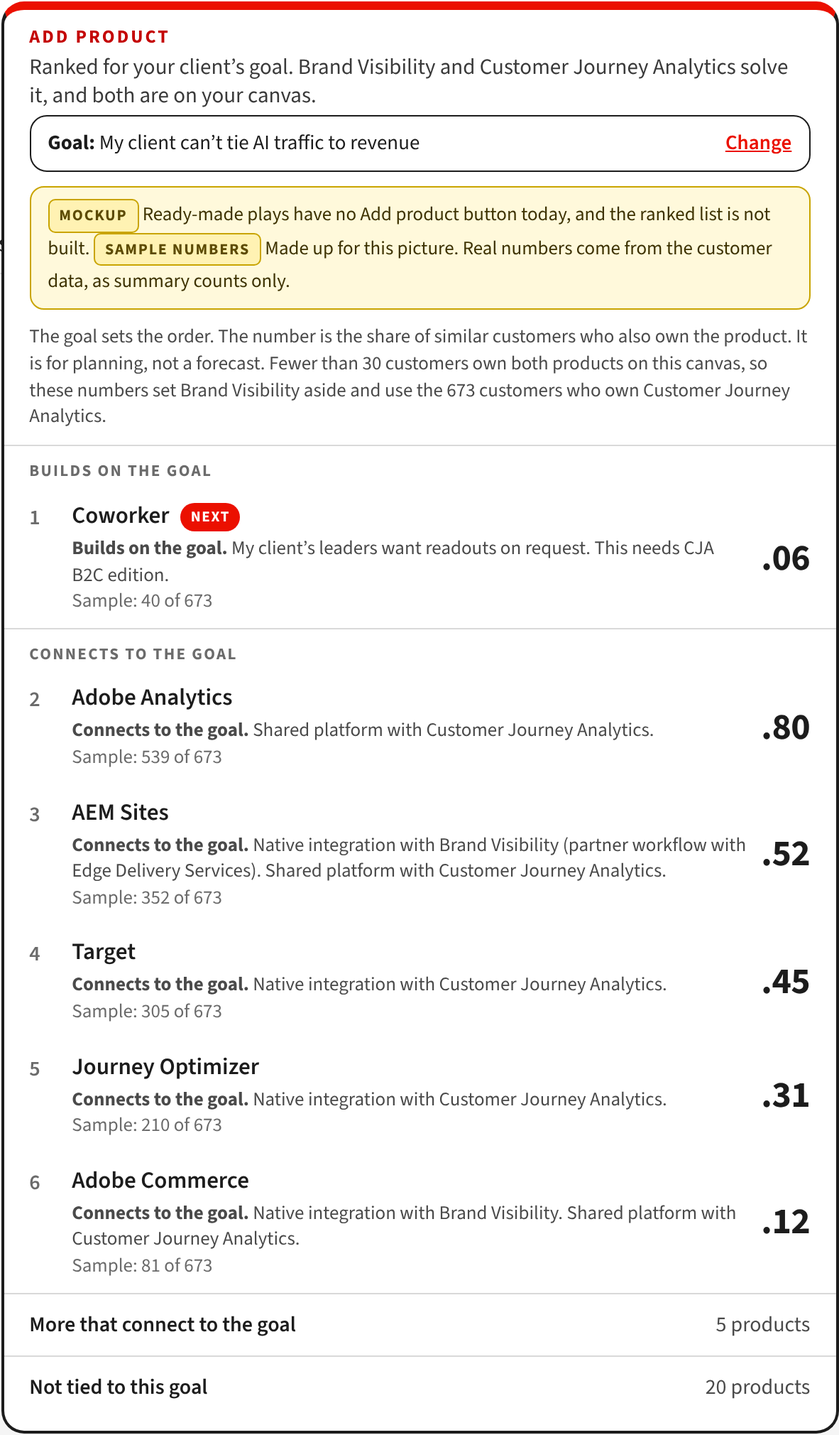
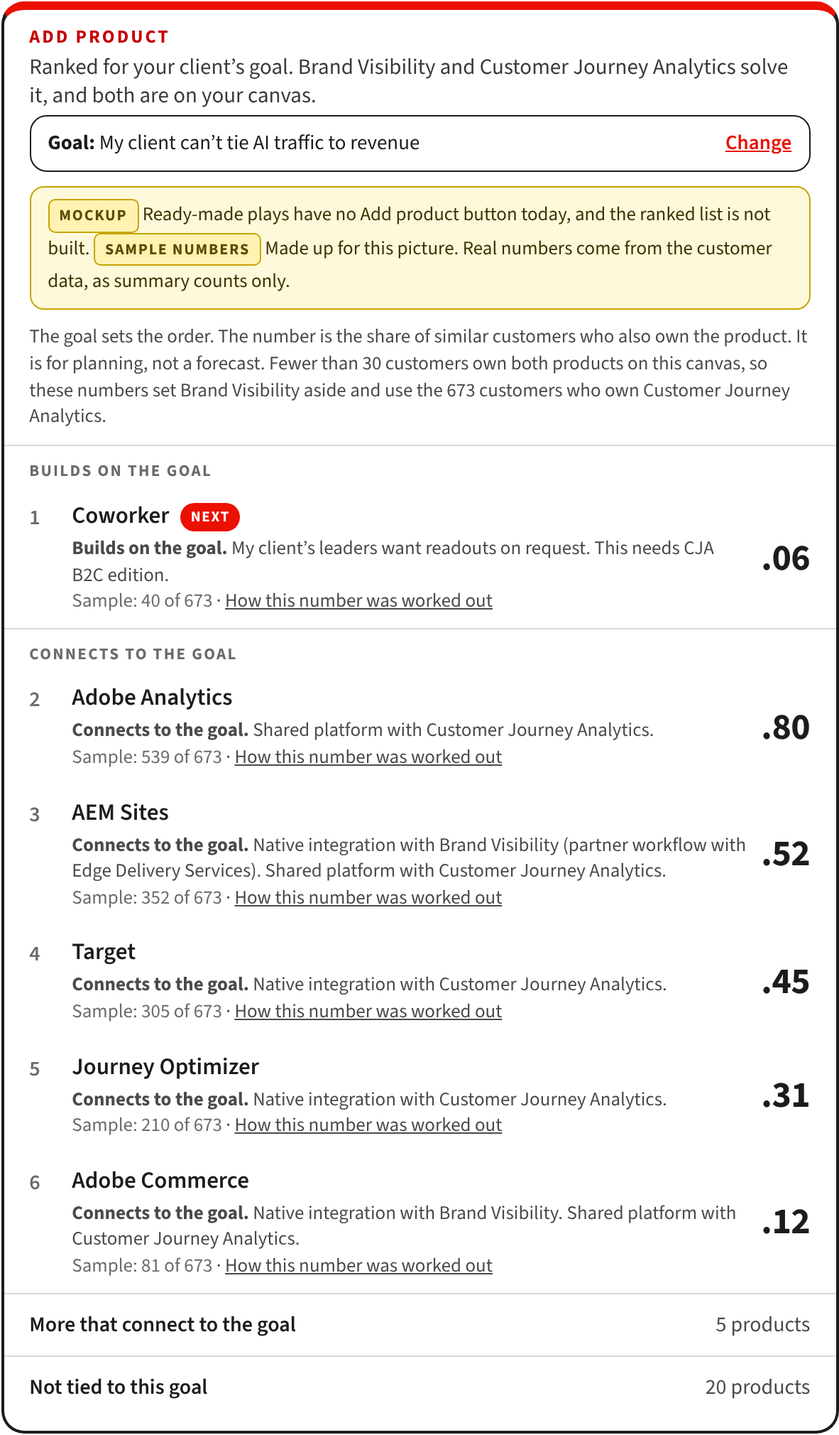
Handoff: second review pass on the propensity tab and mockups [skip netlify]
Work in progress only; nothing in the tool changes. Wording made exact where
a second set of reviewers found it loose (who similar customers are, the
fall-back order, what each check compares), the mockup rows gain the
"How this number was worked out" link, and the tab shows a phone-size
picture on small screens.

Claude-Session: https://claude.ai/code/session_016WYrHW3TmtC37K94o1NhYi

diff --git a/handoff/2026-11-17/propensity/method_page/propensity-method.html b/handoff/2026-11-17/propensity/method_page/propensity-method.html
@@ -93,8 +93,8 @@
 .cw-place-head{break-after:avoid}
 }
 /* Propensity to buy tab */
-main h1,main h2,main h3{text-wrap:balance}
-.pm-status{margin-top:26px;padding:16px 20px;border:1px solid #d9b200;border-radius:14px;background:#fffaf0;font-size:16px;line-height:1.5;color:#3d3200}
+main h1,main h2,main h3,main .micro{text-wrap:balance}
+.pm-status{max-width:920px;margin:26px auto 0;padding:16px 20px;border:1px solid #d9b200;border-radius:14px;background:#fffaf0;font-size:16px;line-height:1.5;color:#3d3200}
 .pm-status strong{color:#2a2200}
 .pm-sample{display:inline-block;margin-right:4px;padding:2px 8px;border:1px solid #c9a400;border-radius:5px;background:#fff2b3;color:#5c4a00;font-size:11px;font-weight:700;letter-spacing:.08em;text-transform:uppercase;white-space:nowrap;vertical-align:.08em}
 .pm-short .impact-ledger h3{margin-top:0}
@@ -119,13 +119,15 @@ main h1,main h2,main h3{text-wrap:balance}
 .pm-note{margin-top:18px;max-width:920px;font-size:15px;line-height:1.6;color:#555}
 .pm-note strong{color:var(--ink)}
 .pm-figure{margin:34px 0 0;display:grid;grid-template-columns:minmax(0,560px) minmax(0,1fr);gap:28px;align-items:start}
-.pm-figure img{display:block;width:100%;height:auto;border-radius:10px}
+.pm-figure img{display:block;width:100%;max-width:560px;height:auto;border-radius:10px}
+.pm-figure .pm-narrow{display:none;max-width:361px}
 .pm-figure figcaption{font-size:15px;line-height:1.6;color:#555}
 .pm-figure figcaption strong{color:var(--ink)}
 @media(min-width:1101px){#proof .cw-steps{grid-template-columns:repeat(2,minmax(0,1fr))}}
 @media(max-width:1100px){.pm-two,.pm-figure{grid-template-columns:1fr}}
 @media(max-width:700px){.pm-calc{white-space:normal}.pm-status{font-size:15px}}
-@media print{.skip-link{display:none}.pm-status,.pm-sample{-webkit-print-color-adjust:exact;print-color-adjust:exact}}
+@media(max-width:480px){.pm-figure .pm-wide{display:none}.pm-figure .pm-narrow{display:block}}
+@media print{.skip-link{display:none}.pm-status,.pm-sample{-webkit-print-color-adjust:exact;print-color-adjust:exact}.pm-figure{grid-template-columns:minmax(0,400px) minmax(0,1fr);gap:20px;break-inside:avoid}}
 </style>
 </head>
 <body>
@@ -153,7 +155,7 @@ main h1,main h2,main h3{text-wrap:balance}
       </article>
       <article>
         <h3>The data sets the number.</h3>
-        <p>Next to each product is one number between 0 and 1. It is the share of similar customers who also own the product. Similar means customers who own every Adobe product on the canvas. The customer count sits beside the number.</p>
+        <p>Next to each product is one number between 0 and 1. It is the share of similar customers who also own the product. Similar means customers who own every Adobe product on the canvas. When too few do, the tool sets a product aside and says which. The customer count sits beside the number.</p>
       </article>
       <article>
         <h3>Checks come first.</h3>
@@ -165,11 +167,11 @@ main h1,main h2,main h3{text-wrap:balance}
 <section class="section capability-section sow-case cw-process pm-steps" id="logic"><div class="wrap">
   <div class="section-heading"><div><p class="eyebrow">How it works</p><h2>The logic,<br>step by step.</h2></div><p>Six steps. The first two need no customer data, so they can work on day one. The other four start when the data is loaded and checked.</p></div>
   <ol class="capability-flow cw-steps">
-      <li><p class="micro">Step 1 · <span>No data needed</span></p><h3>Ask the goal once</h3><p>The tool asks one question for each canvas: what is your client trying to accomplish? The partner picks one of the <strong>23</strong> client problems already in the tool. The answer stays with that canvas until the partner changes it.</p></li>
-      <li><p class="micro">Step 2 · <span>No data needed</span></p><h3>Sort every product by fit</h3><p><strong>Solves the goal:</strong> the products that problem calls for. <strong>Builds on the goal:</strong> products added when the partner gives more detail about the client. <strong>Connects to the goal:</strong> products with a documented connection to one that solves it. Everything else comes last. Products already on the canvas are not listed, so on a ready-made play the list often starts with products that build on the goal. Until the data is loaded, products under the same heading are in name order.</p></li>
+      <li><p class="micro">Step 1 · <span>No data needed</span></p><h3>Ask the goal once</h3><p>The tool asks one question for each canvas: what is your client trying to accomplish? The partner picks one of the <strong>23</strong> client problems already in the tool, or types the goal and confirms the closest of the 23. The answer stays with that canvas until the partner changes it.</p></li>
+      <li><p class="micro">Step 2 · <span>No data needed</span></p><h3>Sort every product by fit</h3><p><strong>Solves the goal:</strong> the products that problem calls for. <strong>Builds on the goal:</strong> products added when the partner gives more detail about the client. <strong>Connects to the goal:</strong> products with a documented connection to one that solves it. Everything else comes last, under “Not tied to this goal”. AEM Sites and AEM Sites with Edge Delivery Services share one row. Products already on the canvas are not listed. When a ready-made play already holds every product that solves the goal, the list starts with products that build on the goal. Until the data is loaded, products under the same heading are in name order.</p></li>
       <li><p class="micro">Step 3 · <span>Needs customer data</span></p><h3>Count similar customers</h3><p>Take the customers who own every Adobe product on the canvas. Count how many of them also own the product. That share is the starting number, and the count is shown beside it. Outside systems, such as a CDN or a CRM, are not in the data and are left out.</p></li>
-      <li><p class="micro">Step 4 · <span>Needs customer data</span></p><h3>Steady the small groups</h3><p>A small group can show 0 or 1 by chance. So we add <strong>10</strong> pretend customers to every group. They own the product as often as the next larger group does. Large groups barely move. Small groups stop swinging.</p></li>
-      <li><p class="micro">Step 5 · <span>Needs customer data</span></p><h3>Fall back when a combination is rare</h3><p>If fewer than <strong>30</strong> customers own every Adobe product on the canvas, the tool sets one product aside at a time until 30 or more remain, and says which it set aside. Products that neither solve the goal nor build on it go first. Each time, the product the fewest customers own goes first. If no product is left, the group is all customers. Expect this often when a canvas holds a new product.</p></li>
+      <li><p class="micro">Step 4 · <span>Needs customer data</span></p><h3>Steady the small groups</h3><p>A small group can show 0 or 1 by chance. So we add <strong>10</strong> pretend customers to every group except all customers. They own the product as often as the next larger group does. Large groups barely move. Small groups stop swinging.</p></li>
+      <li><p class="micro">Step 5 · <span>Needs customer data</span></p><h3>Fall back when a combination is rare</h3><p>If fewer than <strong>30</strong> customers own every Adobe product on the canvas, the tool sets one product aside at a time until 30 or more remain, and says which it set aside. Products that neither solve the goal nor build on it are set aside first, then the goal’s own products. Within each kind, the product the fewest customers own goes first. If no product is left, the group is all customers. Expect this often when a canvas holds a new product.</p></li>
       <li><p class="micro">Step 6 · <span>Needs customer data</span></p><h3>Order the list, then re-rank</h3><p>The goal headings come first. Under a heading, the higher number comes first. Each time a product goes on or comes off the canvas, every number is worked out again. The goal stays the same.</p></li>
   </ol>
 </div></section>
@@ -177,7 +179,7 @@ main h1,main h2,main h3{text-wrap:balance}
 <section class="section cw-evidence" id="example"><div class="wrap">
   <div class="section-heading"><div><p class="eyebrow">The arithmetic</p><h2>A number you can redo by hand.</h2></div><p>Each number opens to the lines of arithmetic behind it. Here are two, with made-up sample numbers. The canvas is the ready-made play Brand Visibility + Customer Journey Analytics. The goal is “My client can’t tie AI traffic to revenue”.</p></div>
   <p class="pm-note"><strong>Where the play fits.</strong> For this goal the tool already recommends the play Brand Visibility + Customer Journey Analytics. The list answers the next question: what comes after the play?</p>
-  <p class="pm-note"><strong>A rare combination.</strong> In this sample only 25 customers own both products on the canvas. That is fewer than 30. So the count sets Brand Visibility aside and uses the 673 customers who own Customer Journey Analytics.</p>
+  <p class="pm-note"><strong>A rare combination.</strong> In this sample fewer than 30 customers own both products on the canvas. Both products solve the goal, and Brand Visibility has fewer owners in the sample. So the count sets Brand Visibility aside and uses the 673 customers who own Customer Journey Analytics.</p>
   <div class="pm-example" id="example-target">
     <h3 id="ex1-h">Target, a common product in the sample</h3>
     <p><span class="pm-sample">Sample numbers</span> Made up to show the arithmetic. They are not customer data.</p>
@@ -190,7 +192,7 @@ main h1,main h2,main h3{text-wrap:balance}
         </tbody>
       </table>
     </div>
-    <p class="pm-shown">On screen: <b>.45</b> with “305 of the 673 customers who own Customer Journey Analytics”.</p>
+    <p class="pm-shown">On screen: <b>.45</b> with “305 of 673”. A line above the list says the 673 are the customers who own Customer Journey Analytics.</p>
   </div>
   <div class="pm-example" id="example-low">
     <h3 id="ex2-h">Coworker, a low number in the sample</h3>
@@ -204,11 +206,12 @@ main h1,main h2,main h3{text-wrap:balance}
         </tbody>
       </table>
     </div>
-    <p class="pm-shown">On screen: <b>.06</b> with “40 of the 673 customers who own Customer Journey Analytics”.</p>
+    <p class="pm-shown">On screen: <b>.06</b> with “40 of 673”.</p>
   </div>
   <figure class="pm-figure" id="example-list">
-    <img src="propensity-mockup.png" width="1182" height="2020" alt="Mockup of the Add product list on the play Brand Visibility + Customer Journey Analytics. Coworker is first at .06 under Builds on the goal. Under Connects to the goal come Adobe Analytics .80, AEM Sites .52, Target .45, Journey Optimizer .31 and Adobe Commerce .12. All numbers are samples.">
-    <figcaption><strong>A low number can still lead the list.</strong> In this sample Coworker shows .06 and Adobe Analytics shows .80. Coworker still comes first, because it builds on this goal and Adobe Analytics only connects to it. The number only sorts products under the same heading, such as “Connects to the goal”. It never moves a product to another heading.<br><br>The picture is a mockup with sample numbers. Ready-made plays have no Add product button today.</figcaption>
+    <img src="propensity-mockup.png" class="pm-wide" width="1182" height="2020" alt="Mockup of the Add product list on the play Brand Visibility + Customer Journey Analytics. Coworker is first at .06 under Builds on the goal. Under Connects to the goal come Adobe Analytics .80, AEM Sites .52, Target .45, Journey Optimizer .31 and Adobe Commerce .12. All numbers are samples.">
+    <img src="propensity-mockup-phone.png" class="pm-narrow" width="724" height="2744" loading="lazy" alt="Mockup of the Add product list on the play Brand Visibility + Customer Journey Analytics. Coworker is first at .06 under Builds on the goal. Under Connects to the goal come Adobe Analytics .80, AEM Sites .52, Target .45, Journey Optimizer .31 and Adobe Commerce .12. All numbers are samples.">
+    <figcaption><strong>A low number can still lead the list.</strong> In this sample Coworker shows .06 and Adobe Analytics shows .80. Coworker still comes first, because it builds on this goal and Adobe Analytics only connects to it. The number only sorts products under the same heading, such as “Connects to the goal”. It never moves a product to another heading. The link “How this number was worked out” opens the arithmetic.<br><br>The picture is a mockup with sample numbers. Ready-made plays have no Add product button today.</figcaption>
   </figure>
 </div></section>
 
@@ -223,11 +226,11 @@ main h1,main h2,main h3{text-wrap:balance}
       <article>
         <p class="micro">With purchase dates, or two lists a year apart</p>
         <h3>A true propensity to buy</h3>
-        <p>The number becomes the share of similar customers who did not own the product and bought it within 12 months. Only this version can be checked against what customers went on to buy.</p>
+        <p>The number becomes the share of similar customers without the product who bought it within 12 months. Only this version can be checked against what customers went on to buy.</p>
       </article>
   </div>
   <p class="pm-note"><strong>Which one will we have?</strong> We will know when the data is read. If it has no purchase dates, a second list a year later is enough to turn the number into a true propensity to buy.</p>
-  <p class="pm-note"><strong>Who similar customers are.</strong> They are the accounts in the customer data that own every Adobe product on the canvas. The tool will name the data and its date. A partner’s client may not look like them. The count treats every product on the canvas as owned, including the ones in this proposal.</p>
+  <p class="pm-note"><strong>Who similar customers are.</strong> They are the accounts in the customer data that own every Adobe product on the canvas, or every product the count keeps when the combination is rare. The tool will name the data and its date. A partner’s client may not look like them. The count treats those products as owned, including ones the partner is only proposing to the client.</p>
   <p class="pm-note"><strong>Three things the number is not.</strong> It is not a forecast for one client. It does not measure the goal: a list of what customers own has no goals in it. It is not a judgment of fit: fit comes from the goal and the documented connections. The goal sets the order. On a rare combination it also decides which product is set aside first, so the customers behind the number can change with the goal.</p>
 </div></section>
 
@@ -235,13 +238,13 @@ main h1,main h2,main h3{text-wrap:balance}
   <div class="section-heading"><div><p class="eyebrow">Before partners see it</p><h2>How we will check the numbers.</h2></div><p>Four checks, then four conditions. If the numbers fail, the tool keeps the goal order and shows only the share of all customers.</p></div>
   <ol class="capability-flow cw-steps">
       <li><p class="micro">Check 1</p><h3>Redo it by hand</h3><p>Every number opens to its lines of arithmetic, like the two examples above. Anyone can redo them on a calculator from the counts on the page.</p></li>
-      <li><p class="micro">Check 2</p><h3>Hold customers back</h3><p>We build the counts from half the customers and test them on the other half. When the tool says <strong>.25</strong>, about 25 in 100 of the held-back customers should own the product.</p></li>
-      <li><p class="micro">Check 3</p><h3>Beat the simple list</h3><p>We hide one product each held-back customer owns and see if the list puts it in the top 3. The numbers must do this more often than a plain list of the most-owned products. If they do not, we say so and show the plain list’s numbers.</p></li>
+      <li><p class="micro">Check 2</p><h3>Hold customers back</h3><p>We build the counts from half the customers and test them on the other half. When the tool says <strong>.25</strong>, about 25 in 100 of the similar customers we held back should own the product.</p></li>
+      <li><p class="micro">Check 3</p><h3>Beat the simple list</h3><p>We hide one product each held-back customer owns and see if it is among the three highest numbers. The numbers must do this more often than a plain list of the most-owned products. If they do not, we say so and show only the share of all customers.</p></li>
       <li><p class="micro">Check 4 · needs purchase dates or two lists a year apart</p><h3>Test against what happened</h3><p>We rebuild the counts as they stood 12 months ago, then compare them with what customers bought in the 12 months that followed.</p></li>
   </ol>
-  <p class="pm-note"><strong>The four conditions.</strong> We sort the numbers into ranges, such as .20 to .30. Every range with 500 or more checks lands within 0.05 of what the tool said. The numbers beat the simple list. The privacy check passes. The data owner signs off.</p>
-  <p class="pm-note"><strong>What the checks cover.</strong> They test the number, not the goal order. The goal order comes from the 23 client problems the team wrote and the documented connections, and each reason on screen names its source. With a list of what customers own today, the checks show that the ownership shares are right. Only Check 4 shows what customers went on to buy.</p>
-  <p class="pm-note"><strong>Why counting and not a statistical model?</strong> A model might rank a little better, but nobody can redo its number by hand. The same checks can score a model later.</p>
+  <p class="pm-note"><strong>The four conditions.</strong> We sort the numbers into ranges, such as .20 to .30. Every range with 500 or more checks lands within 0.05 of what the tool said. The numbers beat the simple list. The privacy check passes: a check will stop the build if the file for the tool holds a group under 30, or anything other than products and counts. The data owner signs off.</p>
+  <p class="pm-note"><strong>What the checks cover.</strong> They test the number, not the goal order. The goal order comes from the 23 client problems the team wrote and the documented connections, and each reason on screen is the client detail or the documented connection behind it. With a list of what customers own today, the checks show whether the ownership shares are right. Only Check 4 shows what customers went on to buy.</p>
+  <p class="pm-note"><strong>Why counting and not a statistical model?</strong> A model might rank better, but nobody can redo its number by hand. The same checks can score a model later.</p>
 </div></section>
 
 <section class="section cw-asks" id="data"><div class="wrap">
@@ -265,7 +268,7 @@ main h1,main h2,main h3{text-wrap:balance}
         <ul class="pm-list">
           <li>The data is never saved to GitHub.</li>
           <li>The counting happens away from the tool. The tool gets group sizes and owner counts only.</li>
-          <li>No group smaller than <strong>30</strong> customers is published. The count inside a group can be smaller, such as 40 of 673 in the sample. It never points to an account, and it can be rounded if the data owner asks.</li>
+          <li>No group smaller than <strong>30</strong> customers is published. A count inside a group can be smaller than 30. It never points to an account, and it can be rounded if the data owner asks.</li>
           <li>Counts are Adobe-internal. Before any partner sees one, we confirm who can open the tool and the data owner approves.</li>
         </ul>
       </article>
@@ -294,7 +297,8 @@ main h1,main h2,main h3{text-wrap:balance}
           <li>No customer data has been loaded.</li>
           <li>No number has been checked against real customers.</li>
           <li>The data owner has not signed off.</li>
-          <li>Open choices: counting or a statistical model; where the list appears; what happens to a play when a product is added; the name on screen; exact or rounded counts; where the counting is done; and the starting values of 30 customers and 10 pretend customers.</li>
+          <li>Open choices: counting or a statistical model; where the list appears; what happens to a play when a product is added; the name on screen; exact or rounded counts; and where the counting is done.</li>
+          <li>The values 30 and 10 are starting values. The hold-back check on the real data confirms or changes them.</li>
         </ul>
       </article>
   </div>

diff --git a/handoff/2026-11-17/propensity/mockups/propensity_mock.js b/handoff/2026-11-17/propensity/mockups/propensity_mock.js
@@ -71,7 +71,7 @@ const row = (n, name, tag, why, num, count, next) => `
 <div class="pp-row"><span class="pp-rank">${n}</span>
 <span class="pp-name">${name}${next ? '<span class="pp-next">Next</span>' : ''}</span>
 ${num ? `<span class="pp-num">${num}</span>` : '<span></span>'}
-<span class="pp-why"><b>${tag}.</b> ${why}${count ? `<br><i>${count}</i>` : ''}</span></div>`;
+<span class="pp-why"><b>${tag}.</b> ${why}${count ? `<br><i>${count}</i> \u00b7 <u>How this number was worked out</u>` : ''}</span></div>`;
 
 const head = `<div class="hd"><div class="k">Add product</div><p>Ranked for your client’s goal. Brand Visibility and Customer Journey Analytics solve it, and both are on your canvas.</p></div>
 <div class="pp-goal"><span><b>Goal:</b> ${GOAL}</span><u>Change</u></div>`;
@@ -140,7 +140,13 @@ ${row(6, 'Adobe Commerce', 'Connects to the goal', WHY.commerce, '.12', 'Sample:
     await p.waitForTimeout(250);
     const box = await p.evaluate(() => { const r = document.getElementById('add-menu').getBoundingClientRect(); return Math.round(r.bottom); });
     await p.screenshot({ path: out + '/' + name + '.png', clip: { x: 0, y: 0, width: 1500, height: Math.min(1400, Math.max(box + 30, 560)) } });
-    if (name.startsWith('p3')) await (await p.$('#add-menu')).screenshot({ path: out + '/p3_list_only.png' });   // the picture the brief's tab shows
+    if (name.startsWith('p3')) {   // the two pictures the brief's tab shows: the list alone, and a phone-width one
+      await p.addStyleTag({ content: '#add-menu.pp{box-shadow:0 0 0 40px #fff}' });
+      await (await p.$('#add-menu')).screenshot({ path: out + '/p3_list_only.png' });
+      await p.addStyleTag({ content: '#add-menu.pp{width:361px}.pp-num{font-size:22px}' });
+      await p.waitForTimeout(200);
+      await (await p.$('#add-menu')).screenshot({ path: out + '/p3_list_phone.png' });
+    }
     console.log(name, '| play:', label, '| menu bottom', box);
     await ctx.close();
   }

diff --git a/handoff/2026-11-17/propensity/method_page/pics.js b/handoff/2026-11-17/propensity/method_page/pics.js
@@ -50,6 +50,8 @@ const srv = http.createServer((q, r) => {
   await shot('m10_phone_example', '#example-target', 390, 844);
   await shot('m11_list_picture', '#example-list', 1440, 1200);
   await shot('m12_tablet_top', null, 1024, 768);
+  await shot('m13_phone_list_picture', '#example-list', 390, 844);
+  await shot('m14_tablet_list_picture', '#example-list', 1024, 768);
   console.log('errors', errs);
   await b.close();
   srv.close();

diff --git a/handoff/2026-11-17/propensity/method_page/build_method_page.py b/handoff/2026-11-17/propensity/method_page/build_method_page.py
@@ -5,7 +5,8 @@ look like the brief, and writes its own main content. It presents the counting d
 (../design_transparent.md) as the proposed method. Every customer count and every number like .45
 on the page is a labeled sample: no customer data has been read.
 
-The page shows one picture, propensity-mockup.png, copied from ../mockups/p3_list_only.png.
+The page shows one picture in two sizes: propensity-mockup.png and propensity-mockup-phone.png,
+copied from ../mockups/p3_list_only.png and p3_list_phone.png.
 
 Run:  python3 build_method_page.py ../../evidence_page/coworker-evidence.html propensity-method.html
 """
@@ -41,8 +42,8 @@ rep('<span class="internal-label"><span class="brief-status-dot" aria-hidden="tr
 
 # this tab's own styles, after the shared ones
 rep('</style>', '''/* Propensity to buy tab */
-main h1,main h2,main h3{text-wrap:balance}
-.pm-status{margin-top:26px;padding:16px 20px;border:1px solid #d9b200;border-radius:14px;background:#fffaf0;font-size:16px;line-height:1.5;color:#3d3200}
+main h1,main h2,main h3,main .micro{text-wrap:balance}
+.pm-status{max-width:920px;margin:26px auto 0;padding:16px 20px;border:1px solid #d9b200;border-radius:14px;background:#fffaf0;font-size:16px;line-height:1.5;color:#3d3200}
 .pm-status strong{color:#2a2200}
 .pm-sample{display:inline-block;margin-right:4px;padding:2px 8px;border:1px solid #c9a400;border-radius:5px;background:#fff2b3;color:#5c4a00;font-size:11px;font-weight:700;letter-spacing:.08em;text-transform:uppercase;white-space:nowrap;vertical-align:.08em}
 .pm-short .impact-ledger h3{margin-top:0}
@@ -67,13 +68,15 @@ main h1,main h2,main h3{text-wrap:balance}
 .pm-note{margin-top:18px;max-width:920px;font-size:15px;line-height:1.6;color:#555}
 .pm-note strong{color:var(--ink)}
 .pm-figure{margin:34px 0 0;display:grid;grid-template-columns:minmax(0,560px) minmax(0,1fr);gap:28px;align-items:start}
-.pm-figure img{display:block;width:100%;height:auto;border-radius:10px}
+.pm-figure img{display:block;width:100%;max-width:560px;height:auto;border-radius:10px}
+.pm-figure .pm-narrow{display:none;max-width:361px}
 .pm-figure figcaption{font-size:15px;line-height:1.6;color:#555}
 .pm-figure figcaption strong{color:var(--ink)}
 @media(min-width:1101px){#proof .cw-steps{grid-template-columns:repeat(2,minmax(0,1fr))}}
 @media(max-width:1100px){.pm-two,.pm-figure{grid-template-columns:1fr}}
 @media(max-width:700px){.pm-calc{white-space:normal}.pm-status{font-size:15px}}
-@media print{.skip-link{display:none}.pm-status,.pm-sample{-webkit-print-color-adjust:exact;print-color-adjust:exact}}
+@media(max-width:480px){.pm-figure .pm-wide{display:none}.pm-figure .pm-narrow{display:block}}
+@media print{.skip-link{display:none}.pm-status,.pm-sample{-webkit-print-color-adjust:exact;print-color-adjust:exact}.pm-figure{grid-template-columns:minmax(0,400px) minmax(0,1fr);gap:20px;break-inside:avoid}}
 </style>''')
 
 SAMPLE = '<p><span class="pm-sample">Sample numbers</span> Made up to show the arithmetic. They are not customer data.</p>'
@@ -96,7 +99,7 @@ MAIN = '''<main id="main">
       </article>
       <article>
         <h3>The data sets the number.</h3>
-        <p>Next to each product is one number between 0 and 1. It is the share of similar customers who also own the product. Similar means customers who own every Adobe product on the canvas. The customer count sits beside the number.</p>
+        <p>Next to each product is one number between 0 and 1. It is the share of similar customers who also own the product. Similar means customers who own every Adobe product on the canvas. When too few do, the tool sets a product aside and says which. The customer count sits beside the number.</p>
       </article>
       <article>
         <h3>Checks come first.</h3>
@@ -108,11 +111,11 @@ MAIN = '''<main id="main">
 <section class="section capability-section sow-case cw-process pm-steps" id="logic"><div class="wrap">
   <div class="section-heading"><div><p class="eyebrow">How it works</p><h2>The logic,<br>step by step.</h2></div><p>Six steps. The first two need no customer data, so they can work on day one. The other four start when the data is loaded and checked.</p></div>
   <ol class="capability-flow cw-steps">
-      <li><p class="micro">Step 1 · <span>No data needed</span></p><h3>Ask the goal once</h3><p>The tool asks one question for each canvas: what is your client trying to accomplish? The partner picks one of the <strong>23</strong> client problems already in the tool. The answer stays with that canvas until the partner changes it.</p></li>
-      <li><p class="micro">Step 2 · <span>No data needed</span></p><h3>Sort every product by fit</h3><p><strong>Solves the goal:</strong> the products that problem calls for. <strong>Builds on the goal:</strong> products added when the partner gives more detail about the client. <strong>Connects to the goal:</strong> products with a documented connection to one that solves it. Everything else comes last. Products already on the canvas are not listed, so on a ready-made play the list often starts with products that build on the goal. Until the data is loaded, products under the same heading are in name order.</p></li>
+      <li><p class="micro">Step 1 · <span>No data needed</span></p><h3>Ask the goal once</h3><p>The tool asks one question for each canvas: what is your client trying to accomplish? The partner picks one of the <strong>23</strong> client problems already in the tool, or types the goal and confirms the closest of the 23. The answer stays with that canvas until the partner changes it.</p></li>
+      <li><p class="micro">Step 2 · <span>No data needed</span></p><h3>Sort every product by fit</h3><p><strong>Solves the goal:</strong> the products that problem calls for. <strong>Builds on the goal:</strong> products added when the partner gives more detail about the client. <strong>Connects to the goal:</strong> products with a documented connection to one that solves it. Everything else comes last, under “Not tied to this goal”. AEM Sites and AEM Sites with Edge Delivery Services share one row. Products already on the canvas are not listed. When a ready-made play already holds every product that solves the goal, the list starts with products that build on the goal. Until the data is loaded, products under the same heading are in name order.</p></li>
       <li><p class="micro">Step 3 · <span>Needs customer data</span></p><h3>Count similar customers</h3><p>Take the customers who own every Adobe product on the canvas. Count how many of them also own the product. That share is the starting number, and the count is shown beside it. Outside systems, such as a CDN or a CRM, are not in the data and are left out.</p></li>
-      <li><p class="micro">Step 4 · <span>Needs customer data</span></p><h3>Steady the small groups</h3><p>A small group can show 0 or 1 by chance. So we add <strong>10</strong> pretend customers to every group. They own the product as often as the next larger group does. Large groups barely move. Small groups stop swinging.</p></li>
-      <li><p class="micro">Step 5 · <span>Needs customer data</span></p><h3>Fall back when a combination is rare</h3><p>If fewer than <strong>30</strong> customers own every Adobe product on the canvas, the tool sets one product aside at a time until 30 or more remain, and says which it set aside. Products that neither solve the goal nor build on it go first. Each time, the product the fewest customers own goes first. If no product is left, the group is all customers. Expect this often when a canvas holds a new product.</p></li>
+      <li><p class="micro">Step 4 · <span>Needs customer data</span></p><h3>Steady the small groups</h3><p>A small group can show 0 or 1 by chance. So we add <strong>10</strong> pretend customers to every group except all customers. They own the product as often as the next larger group does. Large groups barely move. Small groups stop swinging.</p></li>
+      <li><p class="micro">Step 5 · <span>Needs customer data</span></p><h3>Fall back when a combination is rare</h3><p>If fewer than <strong>30</strong> customers own every Adobe product on the canvas, the tool sets one product aside at a time until 30 or more remain, and says which it set aside. Products that neither solve the goal nor build on it are set aside first, then the goal’s own products. Within each kind, the product the fewest customers own goes first. If no product is left, the group is all customers. Expect this often when a canvas holds a new product.</p></li>
       <li><p class="micro">Step 6 · <span>Needs customer data</span></p><h3>Order the list, then re-rank</h3><p>The goal headings come first. Under a heading, the higher number comes first. Each time a product goes on or comes off the canvas, every number is worked out again. The goal stays the same.</p></li>
   </ol>
 </div></section>
@@ -120,7 +123,7 @@ MAIN = '''<main id="main">
 <section class="section cw-evidence" id="example"><div class="wrap">
   <div class="section-heading"><div><p class="eyebrow">The arithmetic</p><h2>A number you can redo by hand.</h2></div><p>Each number opens to the lines of arithmetic behind it. Here are two, with made-up sample numbers. The canvas is the ready-made play Brand Visibility + Customer Journey Analytics. The goal is “My client can’t tie AI traffic to revenue”.</p></div>
   <p class="pm-note"><strong>Where the play fits.</strong> For this goal the tool already recommends the play Brand Visibility + Customer Journey Analytics. The list answers the next question: what comes after the play?</p>
-  <p class="pm-note"><strong>A rare combination.</strong> In this sample only 25 customers own both products on the canvas. That is fewer than 30. So the count sets Brand Visibility aside and uses the 673 customers who own Customer Journey Analytics.</p>
+  <p class="pm-note"><strong>A rare combination.</strong> In this sample fewer than 30 customers own both products on the canvas. Both products solve the goal, and Brand Visibility has fewer owners in the sample. So the count sets Brand Visibility aside and uses the 673 customers who own Customer Journey Analytics.</p>
   <div class="pm-example" id="example-target">
     <h3 id="ex1-h">Target, a common product in the sample</h3>
     ''' + SAMPLE + '''
@@ -133,7 +136,7 @@ MAIN = '''<main id="main">
         </tbody>
       </table>
     </div>
-    <p class="pm-shown">On screen: <b>.45</b> with “305 of the 673 customers who own Customer Journey Analytics”.</p>
+    <p class="pm-shown">On screen: <b>.45</b> with “305 of 673”. A line above the list says the 673 are the customers who own Customer Journey Analytics.</p>
   </div>
   <div class="pm-example" id="example-low">
     <h3 id="ex2-h">Coworker, a low number in the sample</h3>
@@ -147,11 +150,12 @@ MAIN = '''<main id="main">
         </tbody>
       </table>
     </div>
-    <p class="pm-shown">On screen: <b>.06</b> with “40 of the 673 customers who own Customer Journey Analytics”.</p>
+    <p class="pm-shown">On screen: <b>.06</b> with “40 of 673”.</p>
   </div>
   <figure class="pm-figure" id="example-list">
-    <img src="propensity-mockup.png" width="1182" height="2020" alt="Mockup of the Add product list on the play Brand Visibility + Customer Journey Analytics. Coworker is first at .06 under Builds on the goal. Under Connects to the goal come Adobe Analytics .80, AEM Sites .52, Target .45, Journey Optimizer .31 and Adobe Commerce .12. All numbers are samples.">
-    <figcaption><strong>A low number can still lead the list.</strong> In this sample Coworker shows .06 and Adobe Analytics shows .80. Coworker still comes first, because it builds on this goal and Adobe Analytics only connects to it. The number only sorts products under the same heading, such as “Connects to the goal”. It never moves a product to another heading.<br><br>The picture is a mockup with sample numbers. Ready-made plays have no Add product button today.</figcaption>
+    <img src="propensity-mockup.png" class="pm-wide" width="{W}" height="{H}" alt="Mockup of the Add product list on the play Brand Visibility + Customer Journey Analytics. Coworker is first at .06 under Builds on the goal. Under Connects to the goal come Adobe Analytics .80, AEM Sites .52, Target .45, Journey Optimizer .31 and Adobe Commerce .12. All numbers are samples.">
+    <img src="propensity-mockup-phone.png" class="pm-narrow" width="{PW}" height="{PH}" loading="lazy" alt="Mockup of the Add product list on the play Brand Visibility + Customer Journey Analytics. Coworker is first at .06 under Builds on the goal. Under Connects to the goal come Adobe Analytics .80, AEM Sites .52, Target .45, Journey Optimizer .31 and Adobe Commerce .12. All numbers are samples.">
+    <figcaption><strong>A low number can still lead the list.</strong> In this sample Coworker shows .06 and Adobe Analytics shows .80. Coworker still comes first, because it builds on this goal and Adobe Analytics only connects to it. The number only sorts products under the same heading, such as “Connects to the goal”. It never moves a product to another heading. The link “How this number was worked out” opens the arithmetic.<br><br>The picture is a mockup with sample numbers. Ready-made plays have no Add product button today.</figcaption>
   </figure>
 </div></section>
 
@@ -166,11 +170,11 @@ MAIN = '''<main id="main">
       <article>
         <p class="micro">With purchase dates, or two lists a year apart</p>
         <h3>A true propensity to buy</h3>
-        <p>The number becomes the share of similar customers who did not own the product and bought it within 12 months. Only this version can be checked against what customers went on to buy.</p>
+        <p>The number becomes the share of similar customers without the product who bought it within 12 months. Only this version can be checked against what customers went on to buy.</p>
       </article>
   </div>
   <p class="pm-note"><strong>Which one will we have?</strong> We will know when the data is read. If it has no purchase dates, a second list a year later is enough to turn the number into a true propensity to buy.</p>
-  <p class="pm-note"><strong>Who similar customers are.</strong> They are the accounts in the customer data that own every Adobe product on the canvas. The tool will name the data and its date. A partner’s client may not look like them. The count treats every product on the canvas as owned, including the ones in this proposal.</p>
+  <p class="pm-note"><strong>Who similar customers are.</strong> They are the accounts in the customer data that own every Adobe product on the canvas, or every product the count keeps when the combination is rare. The tool will name the data and its date. A partner’s client may not look like them. The count treats those products as owned, including ones the partner is only proposing to the client.</p>
   <p class="pm-note"><strong>Three things the number is not.</strong> It is not a forecast for one client. It does not measure the goal: a list of what customers own has no goals in it. It is not a judgment of fit: fit comes from the goal and the documented connections. The goal sets the order. On a rare combination it also decides which product is set aside first, so the customers behind the number can change with the goal.</p>
 </div></section>
 
@@ -178,13 +182,13 @@ MAIN = '''<main id="main">
   <div class="section-heading"><div><p class="eyebrow">Before partners see it</p><h2>How we will check the numbers.</h2></div><p>Four checks, then four conditions. If the numbers fail, the tool keeps the goal order and shows only the share of all customers.</p></div>
   <ol class="capability-flow cw-steps">
       <li><p class="micro">Check 1</p><h3>Redo it by hand</h3><p>Every number opens to its lines of arithmetic, like the two examples above. Anyone can redo them on a calculator from the counts on the page.</p></li>
-      <li><p class="micro">Check 2</p><h3>Hold customers back</h3><p>We build the counts from half the customers and test them on the other half. When the tool says <strong>.25</strong>, about 25 in 100 of the held-back customers should own the product.</p></li>
-      <li><p class="micro">Check 3</p><h3>Beat the simple list</h3><p>We hide one product each held-back customer owns and see if the list puts it in the top 3. The numbers must do this more often than a plain list of the most-owned products. If they do not, we say so and show the plain list’s numbers.</p></li>
+      <li><p class="micro">Check 2</p><h3>Hold customers back</h3><p>We build the counts from half the customers and test them on the other half. When the tool says <strong>.25</strong>, about 25 in 100 of the similar customers we held back should own the product.</p></li>
+      <li><p class="micro">Check 3</p><h3>Beat the simple list</h3><p>We hide one product each held-back customer owns and see if it is among the three highest numbers. The numbers must do this more often than a plain list of the most-owned products. If they do not, we say so and show only the share of all customers.</p></li>
       <li><p class="micro">Check 4 · needs purchase dates or two lists a year apart</p><h3>Test against what happened</h3><p>We rebuild the counts as they stood 12 months ago, then compare them with what customers bought in the 12 months that followed.</p></li>
   </ol>
-  <p class="pm-note"><strong>The four conditions.</strong> We sort the numbers into ranges, such as .20 to .30. Every range with 500 or more checks lands within 0.05 of what the tool said. The numbers beat the simple list. The privacy check passes. The data owner signs off.</p>
-  <p class="pm-note"><strong>What the checks cover.</strong> They test the number, not the goal order. The goal order comes from the 23 client problems the team wrote and the documented connections, and each reason on screen names its source. With a list of what customers own today, the checks show that the ownership shares are right. Only Check 4 shows what customers went on to buy.</p>
-  <p class="pm-note"><strong>Why counting and not a statistical model?</strong> A model might rank a little better, but nobody can redo its number by hand. The same checks can score a model later.</p>
+  <p class="pm-note"><strong>The four conditions.</strong> We sort the numbers into ranges, such as .20 to .30. Every range with 500 or more checks lands within 0.05 of what the tool said. The numbers beat the simple list. The privacy check passes: a check will stop the build if the file for the tool holds a group under 30, or anything other than products and counts. The data owner signs off.</p>
+  <p class="pm-note"><strong>What the checks cover.</strong> They test the number, not the goal order. The goal order comes from the 23 client problems the team wrote and the documented connections, and each reason on screen is the client detail or the documented connection behind it. With a list of what customers own today, the checks show whether the ownership shares are right. Only Check 4 shows what customers went on to buy.</p>
+  <p class="pm-note"><strong>Why counting and not a statistical model?</strong> A model might rank better, but nobody can redo its number by hand. The same checks can score a model later.</p>
 </div></section>
 
 <section class="section cw-asks" id="data"><div class="wrap">
@@ -208,7 +212,7 @@ MAIN = '''<main id="main">
         <ul class="pm-list">
           <li>The data is never saved to GitHub.</li>
           <li>The counting happens away from the tool. The tool gets group sizes and owner counts only.</li>
-          <li>No group smaller than <strong>30</strong> customers is published. The count inside a group can be smaller, such as 40 of 673 in the sample. It never points to an account, and it can be rounded if the data owner asks.</li>
+          <li>No group smaller than <strong>30</strong> customers is published. A count inside a group can be smaller than 30. It never points to an account, and it can be rounded if the data owner asks.</li>
           <li>Counts are Adobe-internal. Before any partner sees one, we confirm who can open the tool and the data owner approves.</li>
         </ul>
       </article>
@@ -237,7 +241,8 @@ MAIN = '''<main id="main">
           <li>No customer data has been loaded.</li>
           <li>No number has been checked against real customers.</li>
           <li>The data owner has not signed off.</li>
-          <li>Open choices: counting or a statistical model; where the list appears; what happens to a play when a product is added; the name on screen; exact or rounded counts; where the counting is done; and the starting values of 30 customers and 10 pretend customers.</li>
+          <li>Open choices: counting or a statistical model; where the list appears; what happens to a play when a product is added; the name on screen; exact or rounded counts; and where the counting is done.</li>
+          <li>The values 30 and 10 are starting values. The hold-back check on the real data confirms or changes them.</li>
         </ul>
       </article>
   </div>
@@ -248,7 +253,14 @@ MAIN = '''<main id="main">
 tail = tail.replace('Checked on November 17, 2026. Every source is a public Adobe page. Every quote is word for word.',
                     'Draft of November 17, 2026. Sample numbers only. No customer data has been read.')
 assert 'Draft of November 17, 2026' in tail
+from PIL import Image
+
+out_dir = os.path.dirname(os.path.abspath(dst))
+sizes = {}
+for name, source in (('propensity-mockup.png', 'p3_list_only.png'), ('propensity-mockup-phone.png', 'p3_list_phone.png')):
+    shutil.copyfile(os.path.join(here, '..', 'mockups', source), os.path.join(out_dir, name))
+    sizes[name] = Image.open(os.path.join(out_dir, name)).size
+(W, H), (PW, PH) = sizes['propensity-mockup.png'], sizes['propensity-mockup-phone.png']
+MAIN = MAIN.replace('{W}', str(W)).replace('{H}', str(H)).replace('{PW}', str(PW)).replace('{PH}', str(PH))
 open(dst, 'w', encoding='utf-8').write(t + MAIN + tail)
-shutil.copyfile(os.path.join(here, '..', 'mockups', 'p3_list_only.png'),
-                os.path.join(os.path.dirname(os.path.abspath(dst)), 'propensity-mockup.png'))
-print('wrote', dst, 'and propensity-mockup.png')
+print('wrote', dst, 'and its two pictures')

diff --git a/handoff/2026-11-17/evidence_page/tools/package.py b/handoff/2026-11-17/evidence_page/tools/package.py
@@ -14,7 +14,7 @@ import sys
 import zipfile
 
 site, brief_zip, out = sys.argv[1:4]
-ADDED = ['coworker-evidence.html', 'propensity-method.html', 'propensity-mockup.png']
+ADDED = ['coworker-evidence.html', 'propensity-method.html', 'propensity-mockup.png', 'propensity-mockup-phone.png']
 PAGES = [f for f in ADDED if f.endswith('.html')]
 
 src = zipfile.ZipFile(brief_zip)
